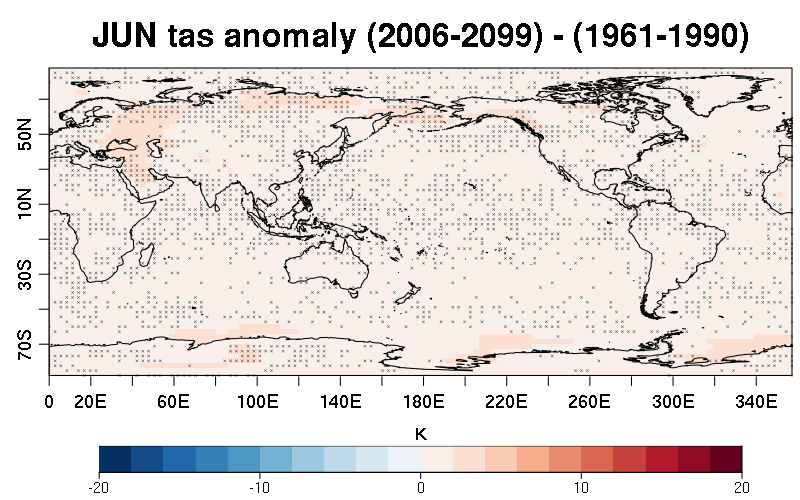
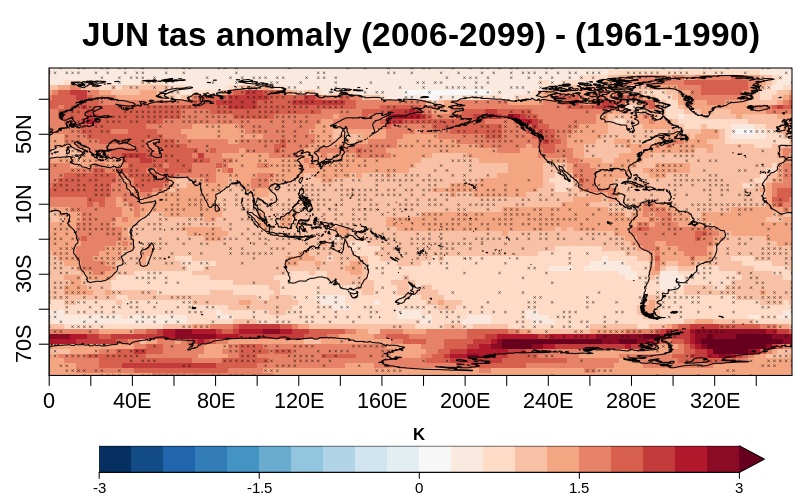
added manual option for colorbar

diff --git a/doc/sphinx/source/recipes/recipe_multimodel_products.rst b/doc/sphinx/source/recipes/recipe_multimodel_products.rst
@@ -38,6 +38,8 @@ User setting files are stored in recipes/
 
    *Required settings for script*
 
+   * colorbar_lim: positive number specifying the range (-colorbar_lim ... +colorbar_lim) of the colorbar
+     (0 = automatic colorbar scaling)
    * moninf: integer specifying the first month of the seasonal mean period to be computed
    * monsup: integer specifying the last month of the seasonal mean period to be computed, if it's null the anomaly of month indicated in moninf will be computed
    * agreement_threshold: integer between 0 and 100 indicating the threshold in percent for the minimum agreement between models on the sign of the multi-model mean anomaly for the stipling to be plotted
